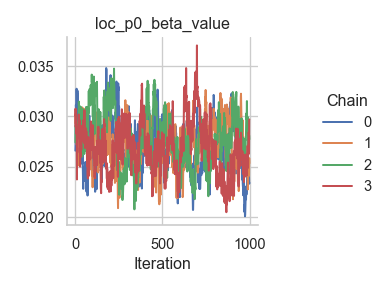
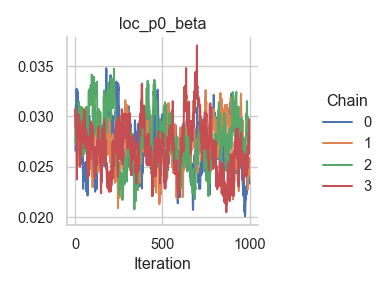
Use variable instead of node names in dist_reg_mcmc(), closes #22

Changed region(s): [[0.2494, 0.0625, 0.5922, 0.125]]

diff --git a/liesel/model/distreg.py b/liesel/model/distreg.py
@@ -259,8 +259,9 @@ class DistRegBuilder(GraphBuilder):
 
 def tau2_gibbs_kernel(group: Mapping[str, Node | Var]) -> GibbsKernel:
     """Builds a Gibbs kernel for a smoothing parameter with an inverse gamma prior."""
-    group = {k: x if isinstance(x, Node) else x.value_node for k, x in group.items()}
     position_key = group["tau2"].name
+
+    group = {k: x if isinstance(x, Node) else x.value_node for k, x in group.items()}
 
     def transition(prng_key, model_state):
         a_prior = model_state[group["a"].name].value
@@ -310,7 +311,7 @@ def dist_reg_mcmc(model: Model, seed: int, num_chains: int) -> EngineBuilder:
             builder.add_kernel(tau2_kernel)
 
         if "beta" in group:
-            position_key = group["beta"].value_node.name  # type: ignore  # var
+            position_key = group["beta"].name
             beta_kernel = IWLSKernel([position_key])
             builder.add_kernel(beta_kernel)
 

diff --git a/tests/model/test_distreg.py b/tests/model/test_distreg.py
@@ -306,7 +306,7 @@ class TestTau2GibbsKernel:
             prng_key, kernel_state={}, model_state=model_state, epoch=epoch_state
         )
 
-        assert outcome.model_state[g["tau2"].value_node.name] > 0.0
+        assert outcome.model_state[g["tau2"].name] > 0.0
 
 
 class TestDistRegMCMC:

diff --git a/docs/source/tutorials/md/04-mcycle.md b/docs/source/tutorials/md/04-mcycle.md
@@ -171,7 +171,7 @@ index
 <tbody>
 <tr>
 <th rowspan="9" valign="top">
-loc_np0_beta_value
+loc_np0_beta
 </th>
 <th>
 (0,)
@@ -489,7 +489,7 @@ kernel_04
 </tr>
 <tr>
 <th>
-loc_np0_tau2_value
+loc_np0_tau2
 </th>
 <th>
 ()
@@ -527,7 +527,7 @@ kernel_03
 </tr>
 <tr>
 <th>
-loc_p0_beta_value
+loc_p0_beta
 </th>
 <th>
 (0,)
@@ -565,7 +565,7 @@ kernel_05
 </tr>
 <tr>
 <th rowspan="9" valign="top">
-scale_np0_beta_value
+scale_np0_beta
 </th>
 <th>
 (0,)
@@ -883,7 +883,7 @@ kernel_01
 </tr>
 <tr>
 <th>
-scale_np0_tau2_value
+scale_np0_tau2
 </th>
 <th>
 ()
@@ -921,7 +921,7 @@ kernel_00
 </tr>
 <tr>
 <th>
-scale_p0_beta_value
+scale_p0_beta
 </th>
 <th>
 (0,)
@@ -1066,37 +1066,37 @@ posterior
 </table>
 
 ``` python
-fig = gs.plot_trace(results, "loc_p0_beta_value")
+fig = gs.plot_trace(results, "loc_p0_beta")
 ```
 
 ![](04-mcycle_files/figure-commonmark/iwls-traces-1.png)
 
 ``` python
-fig = gs.plot_trace(results, "loc_np0_tau2_value")
+fig = gs.plot_trace(results, "loc_np0_tau2")
 ```
 
 ![](04-mcycle_files/figure-commonmark/iwls-traces-2.png)
 
 ``` python
-fig = gs.plot_trace(results, "loc_np0_beta_value")
+fig = gs.plot_trace(results, "loc_np0_beta")
 ```
 
 ![](04-mcycle_files/figure-commonmark/iwls-traces-3.png)
 
 ``` python
-fig = gs.plot_trace(results, "scale_p0_beta_value")
+fig = gs.plot_trace(results, "scale_p0_beta")
 ```
 
 ![](04-mcycle_files/figure-commonmark/iwls-traces-4.png)
 
 ``` python
-fig = gs.plot_trace(results, "scale_np0_tau2_value")
+fig = gs.plot_trace(results, "scale_np0_tau2")
 ```
 
 ![](04-mcycle_files/figure-commonmark/iwls-traces-5.png)
 
 ``` python
-fig = gs.plot_trace(results, "scale_np0_beta_value")
+fig = gs.plot_trace(results, "scale_np0_beta")
 ```
 
 ![](04-mcycle_files/figure-commonmark/iwls-traces-6.png)
@@ -1134,7 +1134,7 @@ library(reticulate)
 summary <- py$summary
 
 beta <- summary %>%
-  filter(variable == "loc_np0_beta_value") %>%
+  filter(variable == "loc_np0_beta") %>%
   group_by(var_index) %>%
   summarize(mean = mean(mean)) %>%
   ungroup()
@@ -1144,7 +1144,7 @@ X <- py_to_r(model$vars["loc_np0_X"]$value)
 f <- X %*% beta
 
 beta0 <- summary %>%
-  filter(variable == "loc_p0_beta_value") %>%
+  filter(variable == "loc_p0_beta") %>%
   group_by(var_index) %>%
   summarize(mean = mean(mean)) %>%
   ungroup()

diff --git a/docs/source/tutorials/md/03-gev.md b/docs/source/tutorials/md/03-gev.md
@@ -213,7 +213,7 @@ index
 <tbody>
 <tr>
 <th rowspan="2" valign="top">
-concentration_p0_beta_value
+concentration_p0_beta
 </th>
 <th>
 (0,)
@@ -286,7 +286,7 @@ kernel_00
 </tr>
 <tr>
 <th rowspan="9" valign="top">
-loc_np0_beta_value
+loc_np0_beta
 </th>
 <th>
 (0,)
@@ -604,7 +604,7 @@ kernel_03
 </tr>
 <tr>
 <th>
-loc_np0_tau2_value
+loc_np0_tau2
 </th>
 <th>
 ()
@@ -642,7 +642,7 @@ kernel_02
 </tr>
 <tr>
 <th>
-loc_p0_beta_value
+loc_p0_beta
 </th>
 <th>
 (0,)
@@ -680,7 +680,7 @@ kernel_04
 </tr>
 <tr>
 <th rowspan="2" valign="top">
-scale_p0_beta_value
+scale_p0_beta
 </th>
 <th>
 (0,)
@@ -924,31 +924,31 @@ posterior
 And the corresponding trace plots:
 
 ``` python
-fig = gs.plot_trace(results, "loc_p0_beta_value")
+fig = gs.plot_trace(results, "loc_p0_beta")
 ```
 
 ![](03-gev_files/figure-commonmark/traces-1.png)
 
 ``` python
-fig = gs.plot_trace(results, "loc_np0_tau2_value")
+fig = gs.plot_trace(results, "loc_np0_tau2")
 ```
 
 ![](03-gev_files/figure-commonmark/traces-2.png)
 
 ``` python
-fig = gs.plot_trace(results, "loc_np0_beta_value")
+fig = gs.plot_trace(results, "loc_np0_beta")
 ```
 
 ![](03-gev_files/figure-commonmark/traces-3.png)
 
 ``` python
-fig = gs.plot_trace(results, "scale_p0_beta_value")
+fig = gs.plot_trace(results, "scale_p0_beta")
 ```
 
 ![](03-gev_files/figure-commonmark/traces-4.png)
 
 ``` python
-fig = gs.plot_trace(results, "concentration_p0_beta_value")
+fig = gs.plot_trace(results, "concentration_p0_beta")
 ```
 
 ![](03-gev_files/figure-commonmark/traces-5.png)
@@ -986,7 +986,7 @@ library(reticulate)
 summary <- py$summary
 
 beta <- summary %>%
-  filter(variable == "loc_np0_beta_value") %>%
+  filter(variable == "loc_np0_beta") %>%
   group_by(var_index) %>%
   summarize(mean = mean(mean)) %>%
   ungroup()
